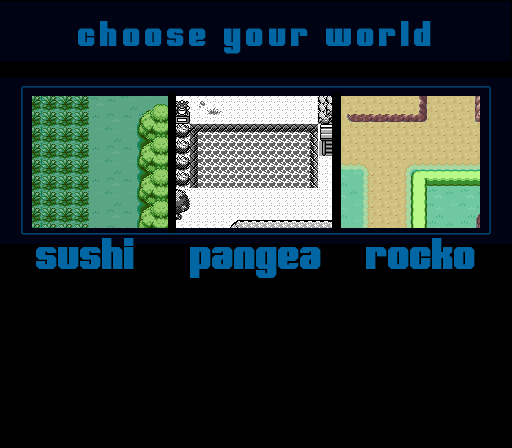
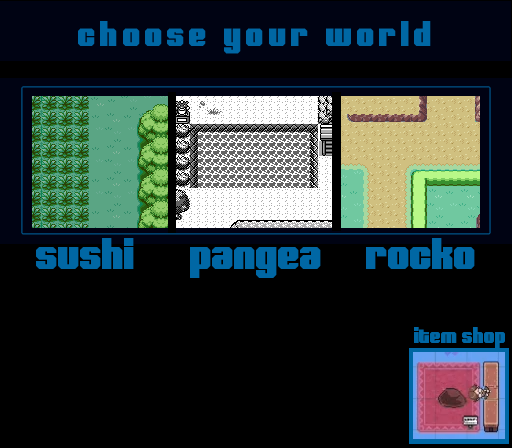
Added EXIT logic and updated menu.

Changed region(s): [[0.7812, 0.7188, 1.0, 1.0]]

diff --git a/res/game/maps/item-shop.js b/res/game/maps/item-shop.js
@@ -23,6 +23,10 @@ var items = [
     ["magic-stone", 1000]
 ];
 
+$('#exit').touch(function (e) {
+    World.exit();
+});
+
 for (var i = 0; i < items.length; i++) {
     (function (n) {
         var item = items[i][0];

diff --git a/src/edu/siren/game/gui/WorldSelection.java b/src/edu/siren/game/gui/WorldSelection.java
@@ -100,6 +100,20 @@ public class WorldSelection implements Gui {
 			
 		});
 		window.add(play);
+		
+		Window itemshop = new Window("Item Shop");
+		{
+		    itemshop.dimensions(100, 100);
+		    itemshop.position(410, 5);
+		    itemshop.onMouseUp(new ElementEvent() {
+		        public boolean event(Element element) {
+		            WorldSelection.this.worldSelected = true;
+    				WorldSelection.this.worldName = "ItemShop";
+		            return false;
+		        }
+		    });
+		    window.add(itemshop);
+		}
 
 		// -- RADIO BUTTONS -- //
 		

diff --git a/src/edu/siren/game/worlds/ItemShop.java b/src/edu/siren/game/worlds/ItemShop.java
@@ -19,9 +19,9 @@ public class ItemShop extends World {
     }
 
     public void addPlayer(Player player) {
+        player.setPosition(458, 297);
+        player.follow = false;
         super.addPlayer(player);
-        
-        player.setPosition(470, 448-175);
     }
     
     public void create() throws IOException {    
@@ -34,6 +34,7 @@ public class ItemShop extends World {
         }
         
         this.getCamera().setPosition(-256, -224);
+        this.getCamera().zoomOut();
     }
     
     public void guiDraw() {

diff --git a/src/edu/siren/Siren.java b/src/edu/siren/Siren.java
@@ -62,8 +62,6 @@ public class Siren {
 	}
 	
 	public void play() throws IOException, LWJGLException {
-		Thread t = AudioUtil.playBackgroundMusic("res/game/sound/balamb.ogg"); 
-		
 		// Create Splash
 		Title splashScreen = new Title(screen);
 
@@ -84,8 +82,6 @@ public class Siren {
 			// Get the Profile
 			currentProfile = gl.getProfile();
 
-			t.interrupt();
-			
 			// Play Game 
 			showGame();
 			

diff --git a/src/edu/siren/game/GamePlay.java b/src/edu/siren/game/GamePlay.java
@@ -75,7 +75,7 @@ public class GamePlay {
 		
         // The close event can take a bit to propagate
 		world.musicThreads.add(AudioUtil.playBackgroundMusic("res/game/sound/ff4.ogg"));
-        while (screen.nextFrame()) {     
+        while (screen.nextFrame()) {
 
         	// If the Screen is Closed...
         	if (!screen.isOpened())

diff --git a/src/edu/siren/core/scripting/JSWorld.java b/src/edu/siren/core/scripting/JSWorld.java
@@ -70,6 +70,10 @@ public class JSWorld {
         world.tempMetaArray.add(what);
     }
     
+    public void exit() {
+        world.gameOver = true;
+    }
+    
     public void printFixed(String str, float size, float x, float y) {
         world.printFixed(str, size, x, y);
     }
